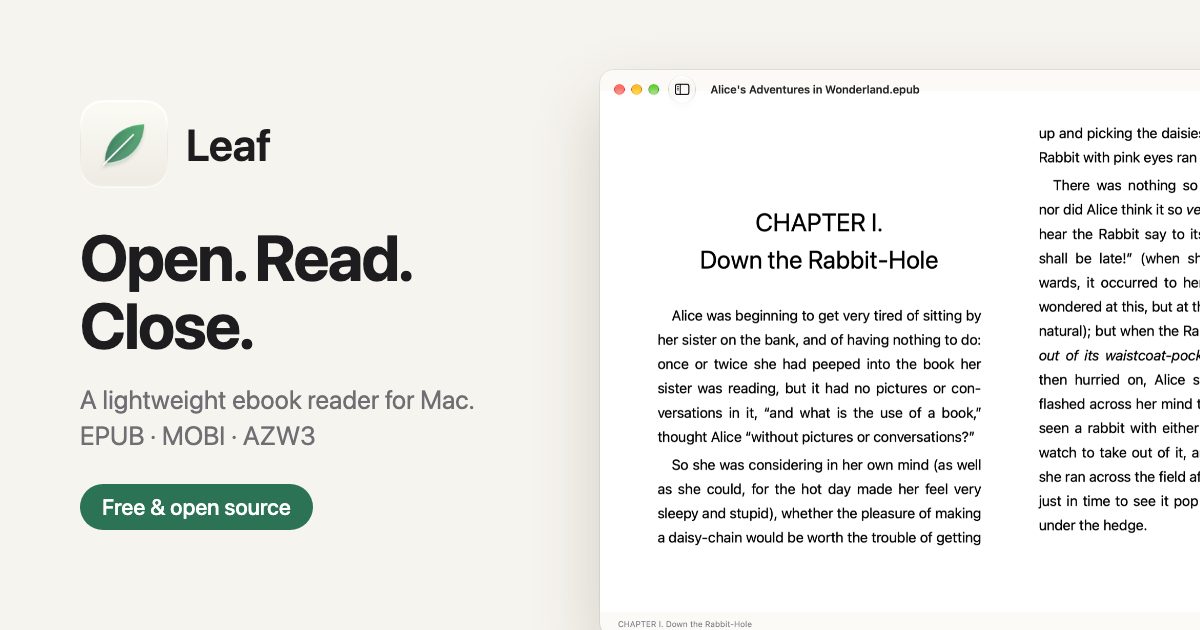
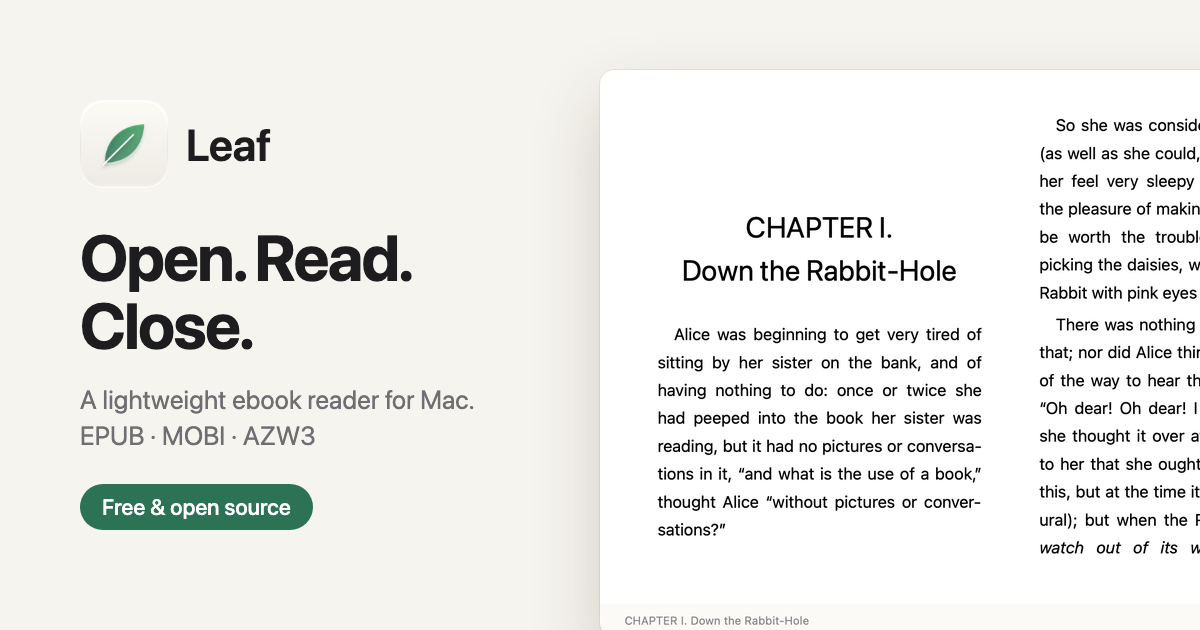
Leaf 0.1.2：版本号；介绍页、README 与分享图换新版截图（顶部按钮悬停浮现、侧栏书名作者）

diff --git a/docs/zh/index.html b/docs/zh/index.html
@@ -37,7 +37,7 @@
   "applicationCategory": "ProductivityApplication",
   "applicationSubCategory": "Ebook reader",
   "operatingSystem": "macOS 15 or later",
-  "softwareVersion": "0.1.1",
+  "softwareVersion": "0.1.2",
   "dateModified": "2026-10-03",
   "inLanguage": "zh-Hans",
   "url": "https://chengffei.github.io/leaf/zh/",
@@ -297,7 +297,7 @@
 
 <div class="wrap">
   <div class="shot">
-    <img src="../images/reading.png" width="1600" height="1105" alt="Leaf reading an EPUB book on Mac in two-column layout" loading="eager">
+    <img src="../images/reading.png" width="1600" height="1106" alt="Leaf reading an EPUB book on Mac in two-column layout" loading="eager">
   </div>
 </div>
 
@@ -359,7 +359,7 @@
       </p>
     </div>
     <div class="shot">
-      <img src="../images/toc.png" width="1600" height="1105" alt="Leaf table of contents sidebar on macOS" loading="lazy">
+      <img src="../images/toc.png" width="1600" height="1106" alt="Leaf table of contents sidebar on macOS" loading="lazy">
     </div>
   </div>
 </section>
@@ -454,7 +454,7 @@
   <p><a href="https://github.com/chengffei/leaf">github.com/chengffei/leaf</a></p>
   <p>
     
-    作者 <a href="https://github.com/chengffei">Felix</a> · 版本 0.1.1 · 最后更新 <time datetime="2026-10-03">2026 年 10 月 3 日</time>
+    作者 <a href="https://github.com/chengffei">Felix</a> · 版本 0.1.2 · 最后更新 <time datetime="2026-10-03">2026 年 10 月 3 日</time>
   </p>
 </footer>
 

diff --git a/docs/index.html b/docs/index.html
@@ -37,7 +37,7 @@
   "applicationCategory": "ProductivityApplication",
   "applicationSubCategory": "Ebook reader",
   "operatingSystem": "macOS 15 or later",
-  "softwareVersion": "0.1.1",
+  "softwareVersion": "0.1.2",
   "dateModified": "2026-10-03",
   "inLanguage": "en",
   "url": "https://chengffei.github.io/leaf/",
@@ -297,7 +297,7 @@
 
 <div class="wrap">
   <div class="shot">
-    <img src="images/reading.png" width="1600" height="1105" alt="Leaf reading an EPUB book on Mac in two-column layout" loading="eager">
+    <img src="images/reading.png" width="1600" height="1106" alt="Leaf reading an EPUB book on Mac in two-column layout" loading="eager">
   </div>
 </div>
 
@@ -359,7 +359,7 @@
       </p>
     </div>
     <div class="shot">
-      <img src="images/toc.png" width="1600" height="1105" alt="Leaf table of contents sidebar on macOS" loading="lazy">
+      <img src="images/toc.png" width="1600" height="1106" alt="Leaf table of contents sidebar on macOS" loading="lazy">
     </div>
   </div>
 </section>
@@ -453,7 +453,7 @@
   </p>
   <p><a href="https://github.com/chengffei/leaf">github.com/chengffei/leaf</a></p>
   <p>
-    Made by <a href="https://github.com/chengffei">Felix</a> · Version 0.1.1 · Last updated <time datetime="2026-10-03">3 October 2026</time>
+    Made by <a href="https://github.com/chengffei">Felix</a> · Version 0.1.2 · Last updated <time datetime="2026-10-03">3 October 2026</time>
     
   </p>
 </footer>

diff --git a/scripts/site/index.template.html b/scripts/site/index.template.html
@@ -188,7 +188,7 @@
 
 <div class="wrap">
   <div class="shot">
-    <img src="{{BASE}}images/reading.png" width="1600" height="1105" alt="Leaf reading an EPUB book on Mac in two-column layout" loading="eager">
+    <img src="{{BASE}}images/reading.png" width="1600" height="1106" alt="Leaf reading an EPUB book on Mac in two-column layout" loading="eager">
   </div>
 </div>
 
@@ -250,7 +250,7 @@
       </p>
     </div>
     <div class="shot">
-      <img src="{{BASE}}images/toc.png" width="1600" height="1105" alt="Leaf table of contents sidebar on macOS" loading="lazy">
+      <img src="{{BASE}}images/toc.png" width="1600" height="1106" alt="Leaf table of contents sidebar on macOS" loading="lazy">
     </div>
   </div>
 </section>
